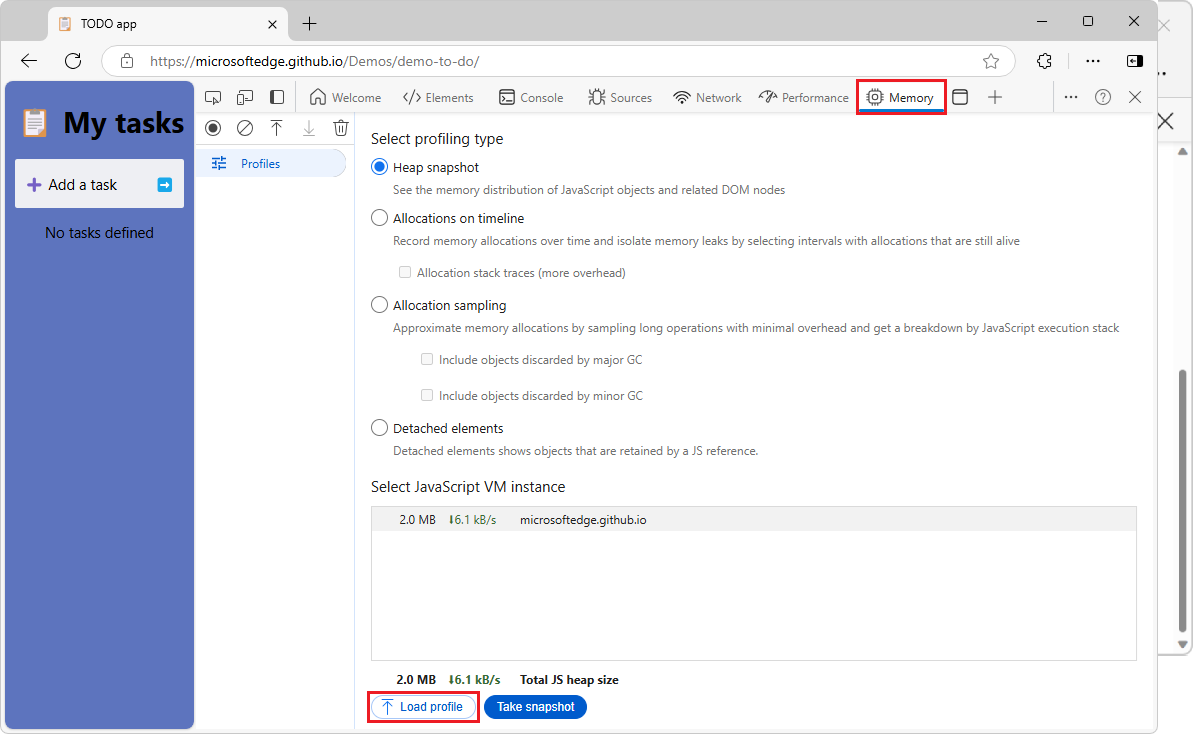
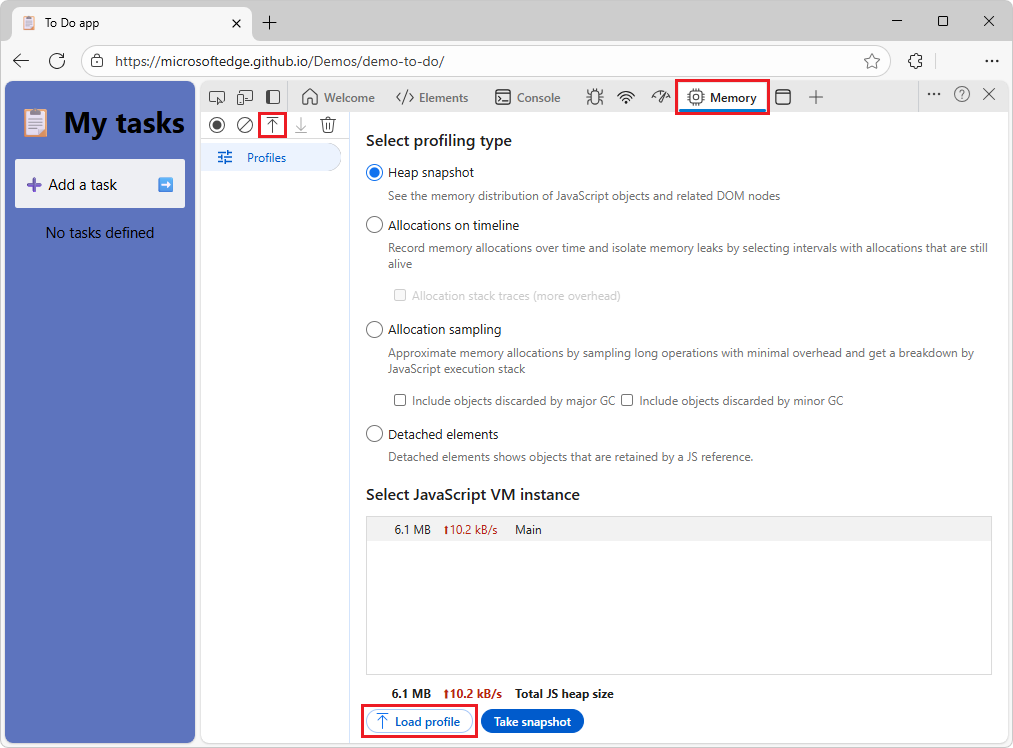
Load Profile buttons png

diff --git a/microsoft-edge/devtools/experimental-features/share-memory-traces.md b/microsoft-edge/devtools/experimental-features/share-memory-traces.md
@@ -64,11 +64,13 @@ To export memory information from the **Memory** tool:
 
 To import a trace in the **Memory** tool:
 
-1. Open the **Memory** tool.
-
-1. Click the **Load profile** button:
+1. Open the **Memory** tool:
 
    ![Microsoft Edge, showing the Memory tool in DevTools, with the Load button](./share-memory-traces-images/importing-memory-trace.png)
+
+1. Click the **Load profile** (![](./share-memory-traces-images/load-profile-icon.png)) button at the top.
+
+   Or, click the **Load profile** button at the bottom.
 
 1. Locate the trace file on your disk. It's either a `.devtools` file, or a `.heapsnapshot`, `.heaptimeline`, or `.heapprofile` file.
 
